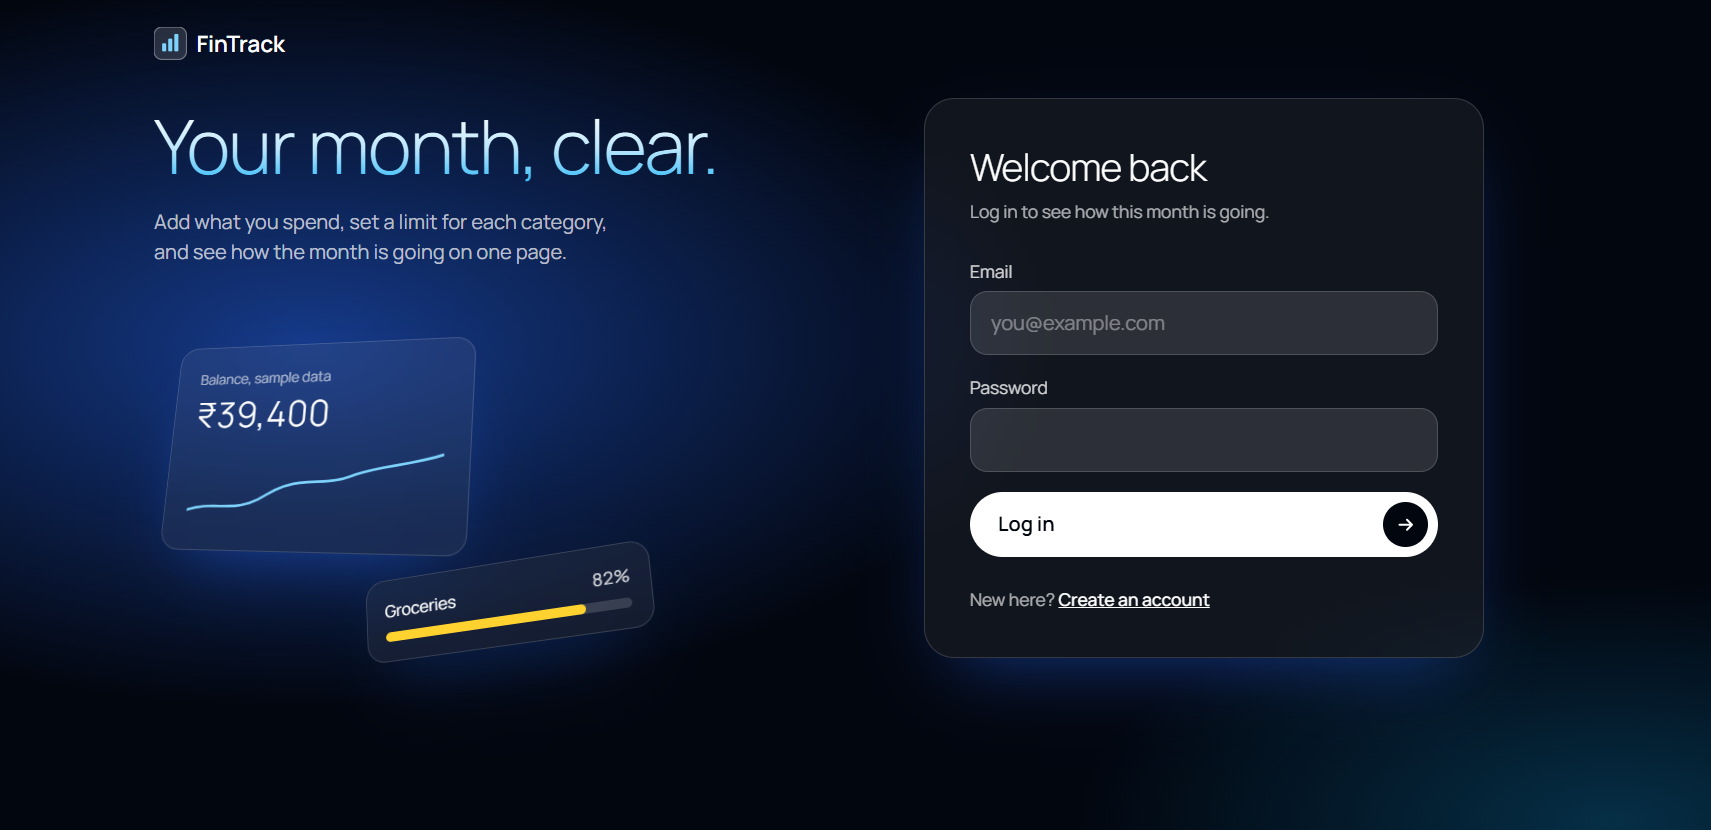
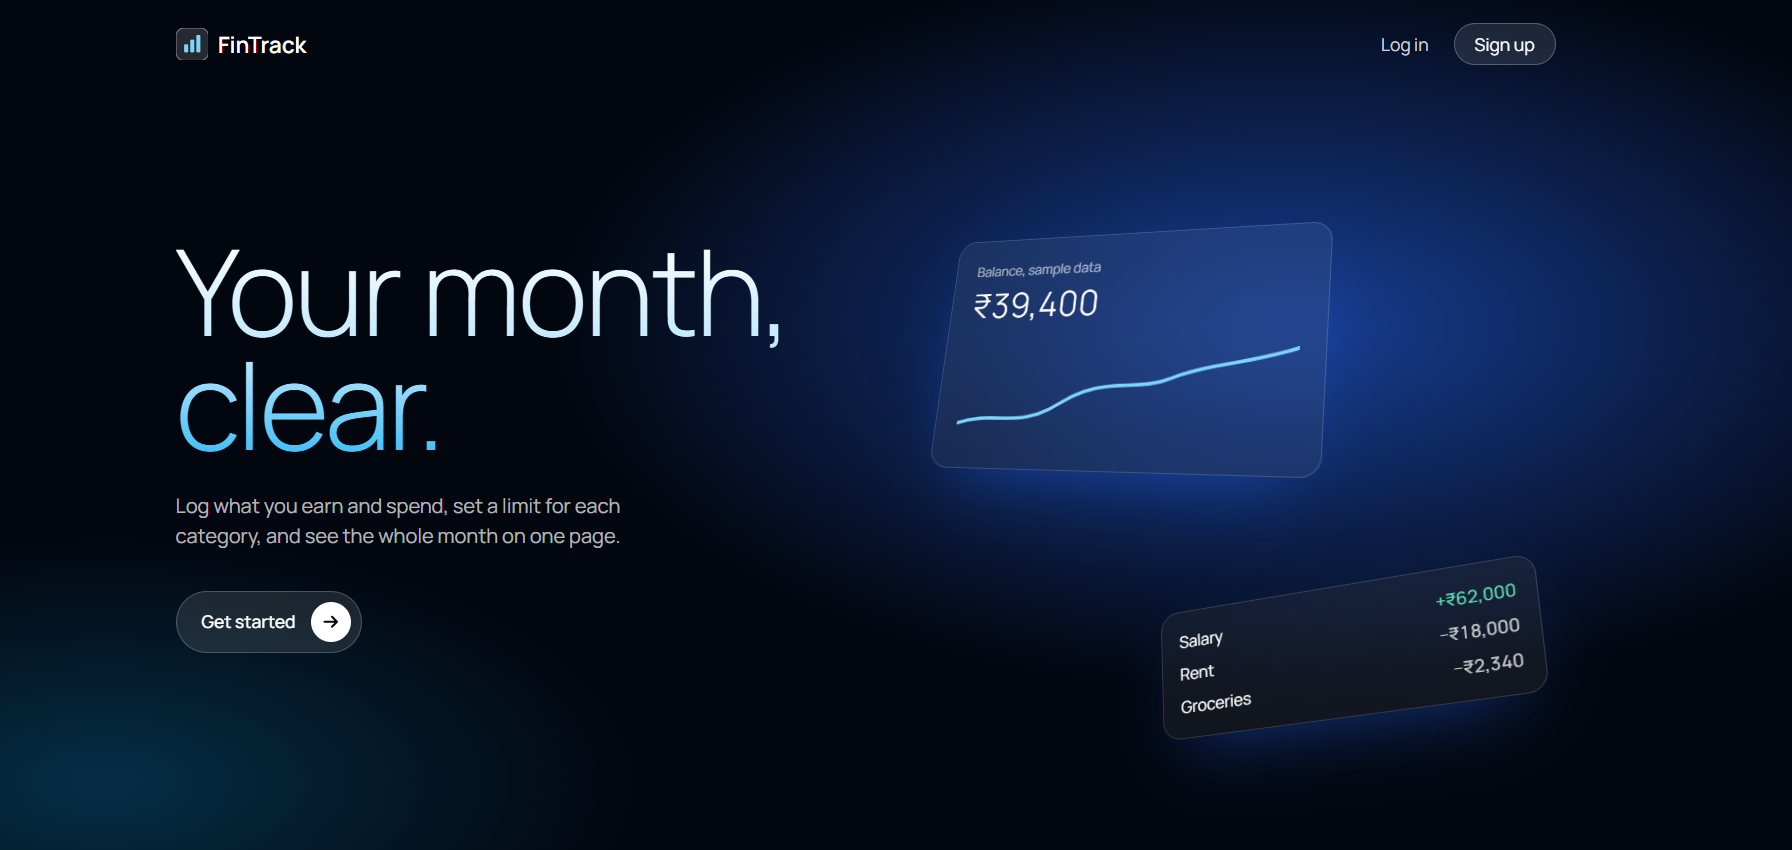
Add screenshots and README updates

diff --git a/src/app/page.tsx b/src/app/page.tsx
@@ -101,10 +101,7 @@ export default async function Home() {
           </div>
 
           <div className="relative h-[380px] sm:h-[460px]" aria-hidden="true">
-            <div className="absolute right-0 top-0 inline-flex items-center gap-2 rounded-full border border-white/15 bg-white/10 px-4 py-1.5 text-sm backdrop-blur">
-              <span className="h-2 w-2 rounded-full bg-emerald-400" />
-              Private by design
-            </div>
+           
 
             <div
               className={`${glass} absolute left-[4%] top-[12%] w-[62%] p-5`}
@@ -235,10 +232,6 @@ export default async function Home() {
         <Glow background="radial-gradient(60% 55% at 50% 40%, rgba(14,165,233,0.3), transparent 70%)" />
         <div className="relative mx-auto max-w-6xl px-6 py-20 lg:py-28">
           <div className="mx-auto max-w-2xl text-center">
-            <span className="inline-flex items-center gap-2 rounded-full border border-white/15 bg-white/10 px-4 py-1.5 text-sm backdrop-blur">
-              <span className="h-2 w-2 rounded-full bg-emerald-400" aria-hidden="true" />
-              Private by design
-            </span>
             <h2 className="mt-5 text-4xl font-light sm:text-5xl">Your month in one view</h2>
             <p className="mt-4 text-white/70">
               Totals, spending by category and a six-month trend, updated as you add transactions. Each account sees only its own data.
